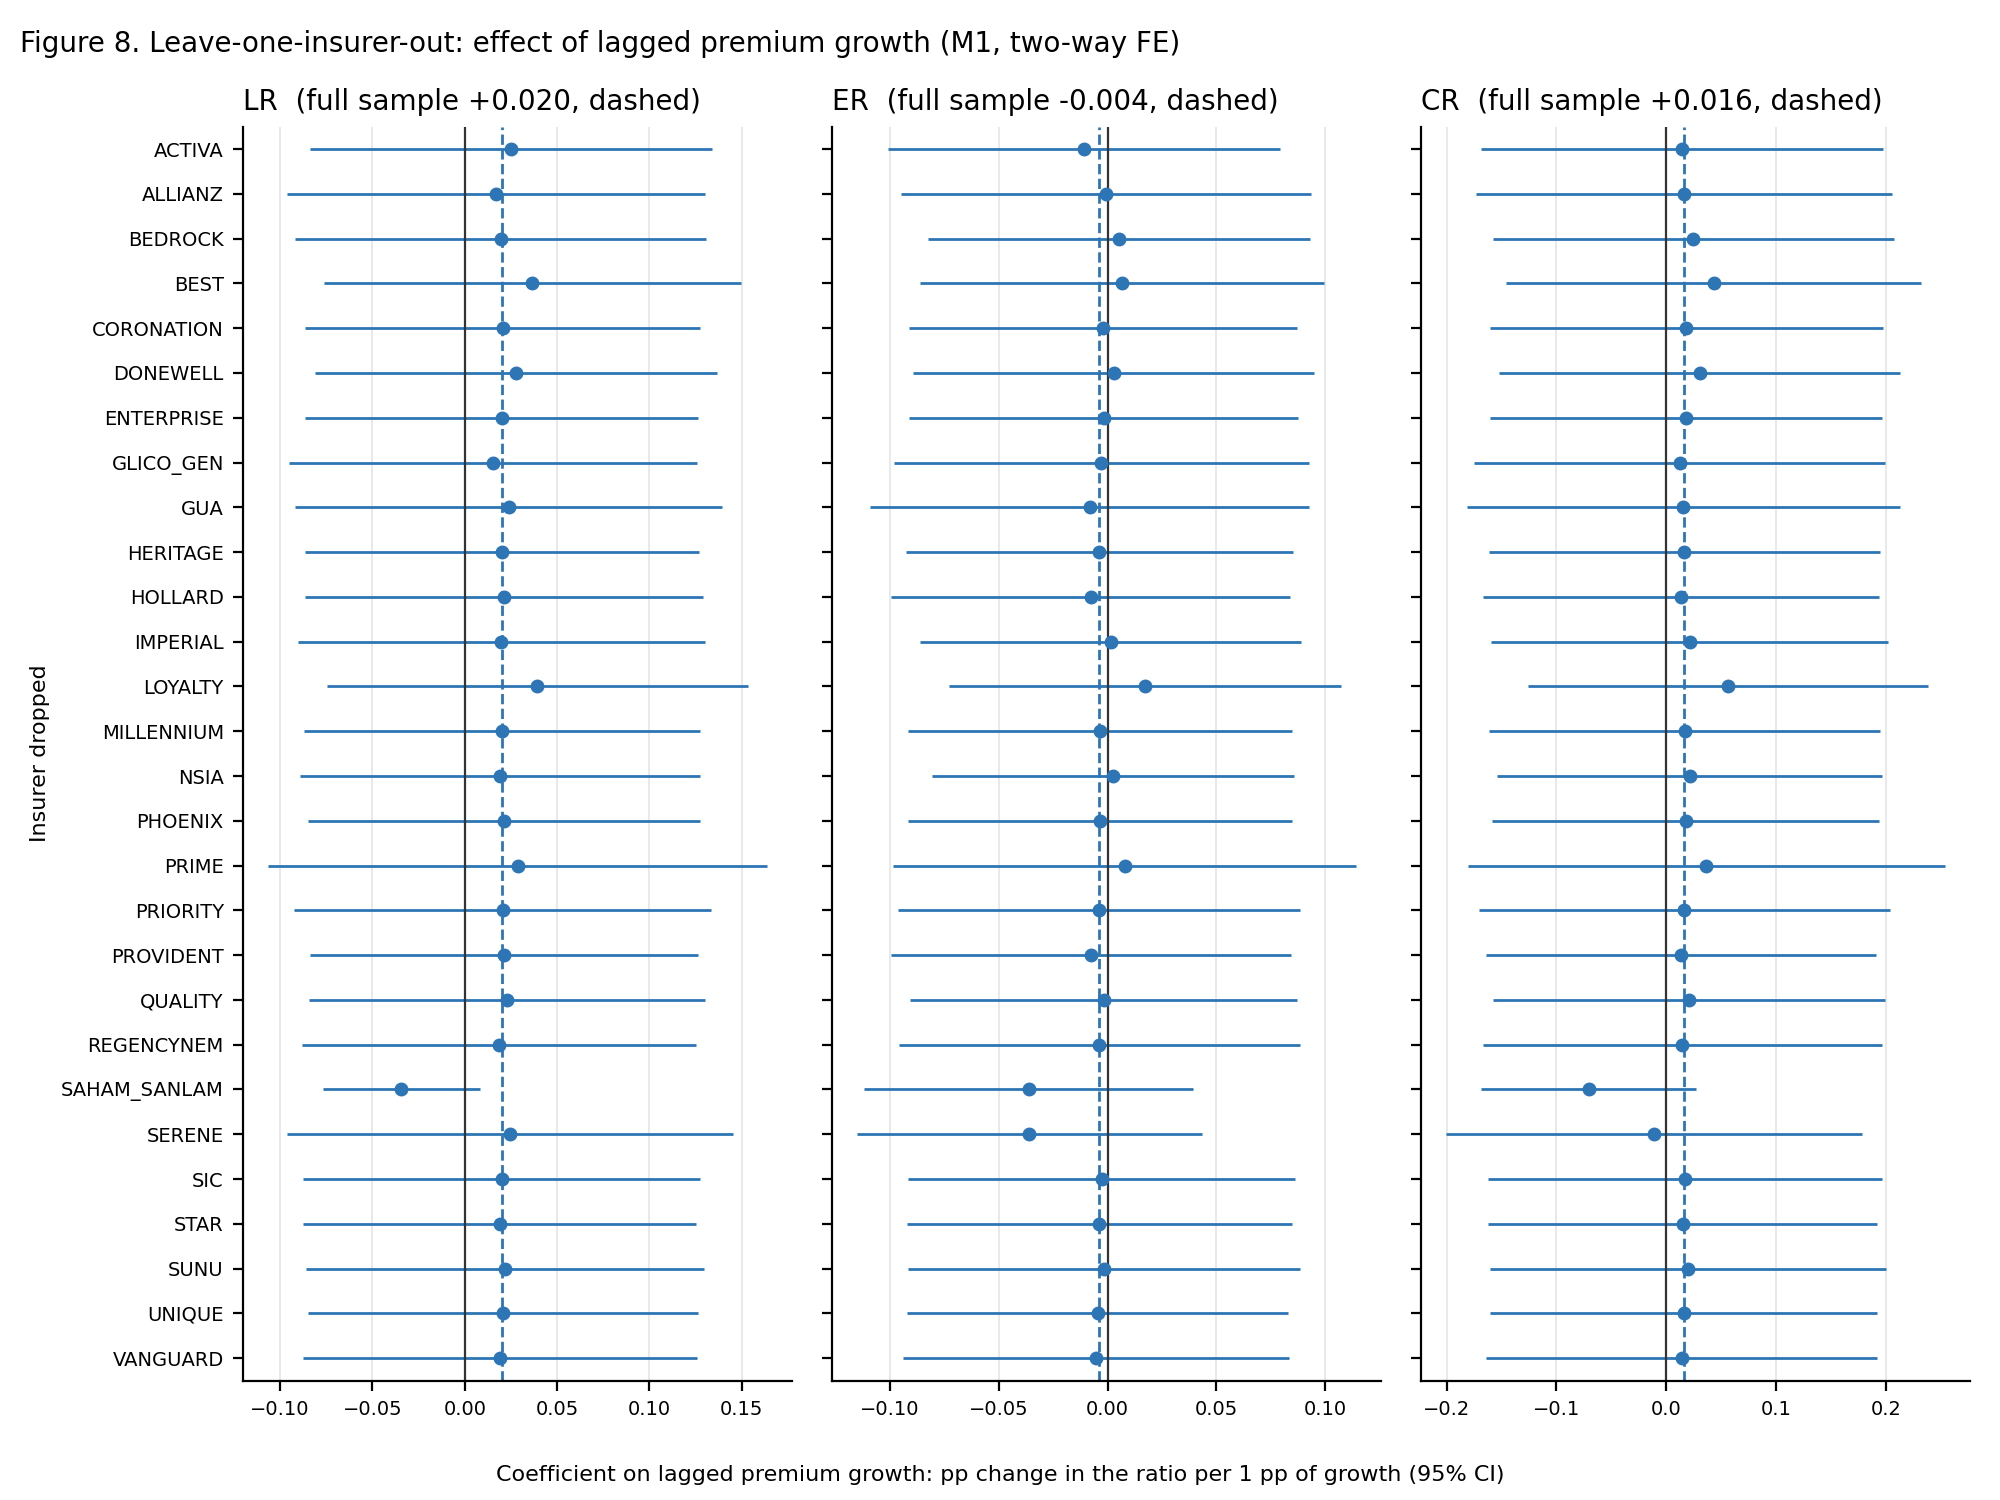
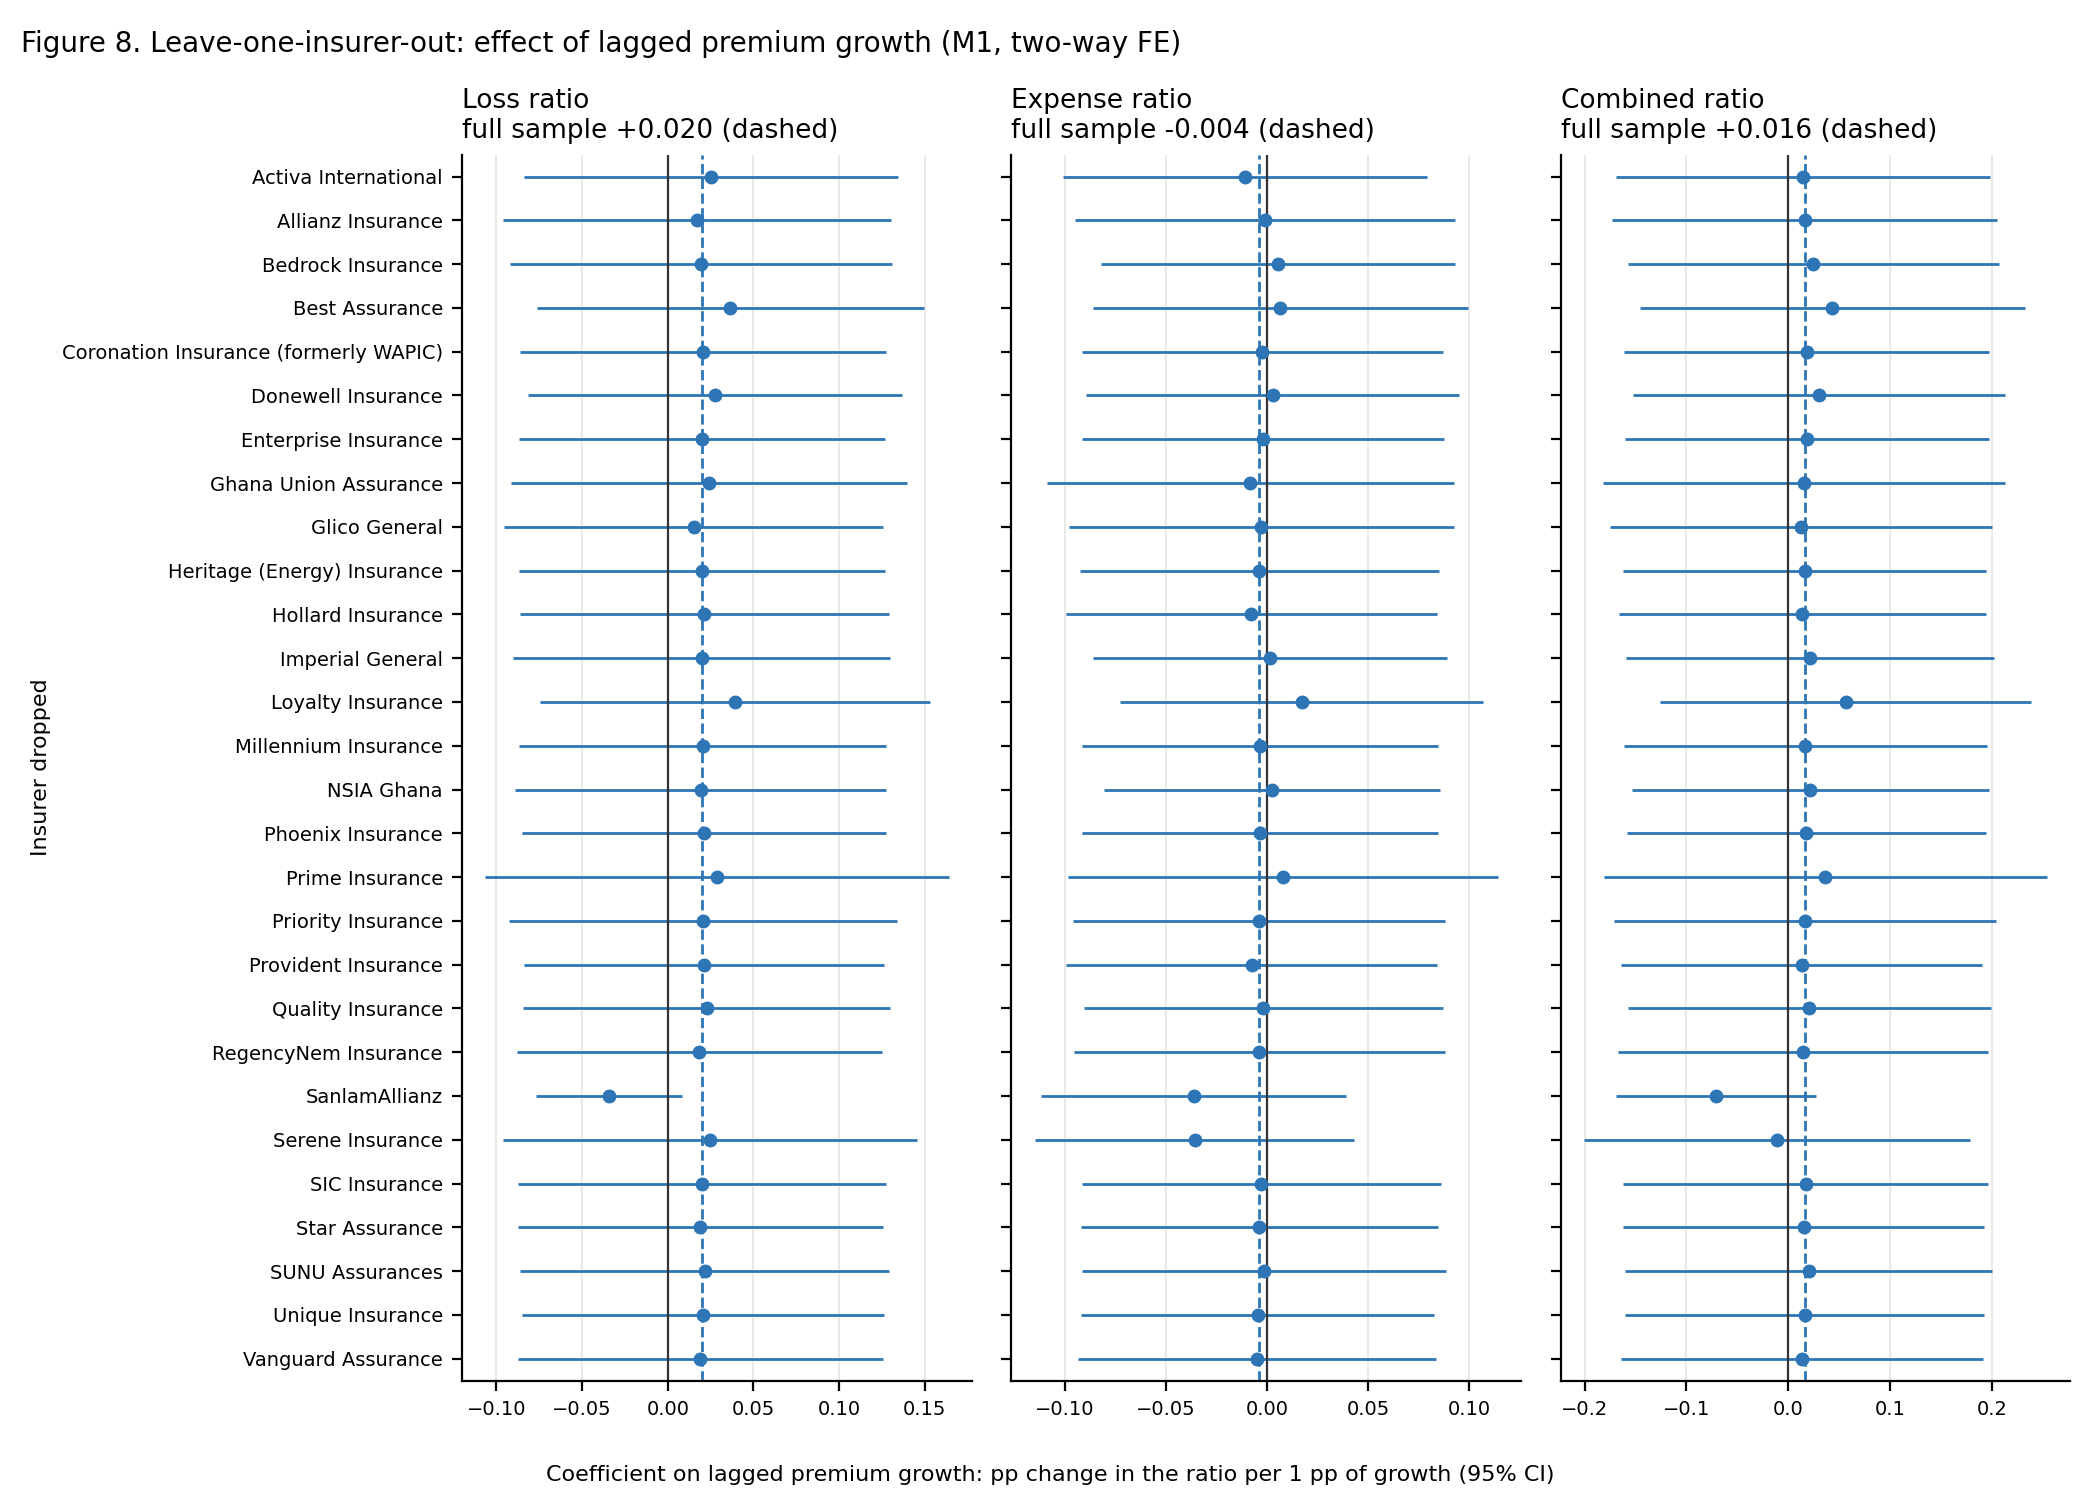
Figure 8: insurer display names and outcome names; macro README template says Figure 3
Figure 8 rows use the table display names (insurer_name, step 03), with SAHAM_SANLAM shown as
SanlamAllianz to match the thesis text; insurers sorted by display name; panel titles Loss ratio,
Expense ratio, Combined ratio on two lines (no overlap). src/00_fetch_macro.py README template now
says Figure 3 (data/raw/macro/README.md itself unchanged until the snapshot is refreshed).

diff --git a/src/10_leave_one_out.py b/src/10_leave_one_out.py
@@ -6,7 +6,8 @@ recording growth (g_L1_w) and size (v1: ln_gwp_L1; v2: ln_assets_L1).
 
 WINSORISING: the existing _w values in the estimation sample are used unchanged. Bounds are NOT recomputed
 after dropping an insurer, so each run changes only the sample, not the variable definitions.
-v1: estimation_sample.csv, checked against regressions.csv -> robust_leave_one_out*.csv (the v1 figure is frozen in outputs/figures/v1/).
+v1: estimation_sample.csv, checked against regressions.csv -> robust_leave_one_out*.csv
+(the v1 figure is frozen in outputs/figures/v1/).
 v2: data/processed/estimation_sample_v2.csv, checked against main_models_v2.csv
 -> robust_leave_one_out*_v2.csv (aggregate) and thesis Figure 8 (Figure_8_leave_one_out.png).
 """
@@ -17,6 +18,11 @@ from config import PROCESSED, TABLES, FIGURES
 from models import fe
 
 Ys = ['LR_w', 'ER_w', 'CR_w']
+OUTCOME_LABEL = {'LR_w': 'Loss ratio', 'ER_w': 'Expense ratio', 'CR_w': 'Combined ratio'}
+# Figure 8 labels: the display names used in the tables (insurer_name in panel_master.csv, step 03), except
+# SAHAM_SANLAM, shown as "SanlamAllianz" to match the thesis text (the tables print "Saham / Sanlam / SanlamAllianz").
+DISPLAY = pd.read_csv(PROCESSED / 'panel_master.csv').drop_duplicates('insurer_id').set_index('insurer_id').insurer_name.to_dict()
+DISPLAY['SAHAM_SANLAM'] = 'SanlamAllianz'
 
 def loo(E, X, terms, ref_coef):
     full = {}
@@ -47,16 +53,16 @@ def figure(L, full, title, path):
     """Thesis Figure 8: g_L1_w with 95% CI per dropped insurer, one panel per outcome, same insurer order in every panel.
     The full-sample estimate is the dashed line, with its value in the panel title (no floating label)."""
     ink, accent = '#333333', '#2e75b6'
-    f, axs = plt.subplots(1, 3, figsize=(10, 7.5), sharey=True)
-    order = sorted(L.dropped.unique()); ypos = {ins: i for i, ins in enumerate(order)}
+    f, axs = plt.subplots(1, 3, figsize=(10.5, 7.5), sharey=True)
+    order = sorted(L.dropped.unique(), key=lambda i: DISPLAY[i].lower()); ypos = {ins: i for i, ins in enumerate(order)}
     for ax, y in zip(axs, Ys):
         d = L[L.outcome == y]; yy = d.dropped.map(ypos); b0 = full[y].params['g_L1_w']
         ax.errorbar(d.g_L1_w_coef, yy, xerr=1.96 * d.g_L1_w_se, fmt='o', ms=4, color=accent, ecolor=accent, elinewidth=1, capsize=0)
         ax.axvline(b0, color=accent, lw=1, ls='--'); ax.axvline(0, color=ink, lw=.8)
-        ax.set_title(f"{y.replace('_w', '')}  (full sample {b0:+.3f}, dashed)", loc='left', fontsize=10)
+        ax.set_title(f"{OUTCOME_LABEL[y]}\nfull sample {b0:+.3f} (dashed)", loc='left', fontsize=9.5)
         ax.tick_params(labelsize=7); ax.grid(axis='x', color='#e5e5e5', lw=.6); ax.set_axisbelow(True)
         for s in ('top', 'right'): ax.spines[s].set_visible(False)
-    axs[0].set_yticks(range(len(order))); axs[0].set_yticklabels(order); axs[0].set_ylabel('Insurer dropped', fontsize=8)
+    axs[0].set_yticks(range(len(order))); axs[0].set_yticklabels([DISPLAY[i] for i in order]); axs[0].set_ylabel('Insurer dropped', fontsize=8)
     axs[0].set_ylim(len(order) - .5, -.5)
     f.supxlabel('Coefficient on lagged premium growth: pp change in the ratio per 1 pp of growth (95% CI)', fontsize=8)
     f.suptitle(title, x=.01, ha='left', fontsize=10)

diff --git a/src/00_fetch_macro.py b/src/00_fetch_macro.py
@@ -34,7 +34,7 @@ lines = [f'# Macro data snapshot', '',
          f'- **Retrieved:** {date.today().isoformat()} (WDI last updated {meta.get("lastupdated")})',
          f'- **File:** `{WDI_CPI_FILE.name}` (raw API response, unchanged)',
          f'- **Original source:** Ghana Statistical Service (GSS), compiled by the World Bank',
-         f'- **Used for:** deflating premium growth (`g_real`, Figure 5) by annual-average CPI inflation',
+         f'- **Used for:** deflating premium growth (`g_real`, Figure 3) by annual-average CPI inflation',
          f'- **Refresh:** `python src/00_fetch_macro.py`, then rerun the pipeline. Values may be revised between WDI releases.',
          '', '| Year | Inflation, annual average (%) |', '|---|---|']
 lines += [f'| {y} | {vals[y]} |' for y in sorted(vals)]
